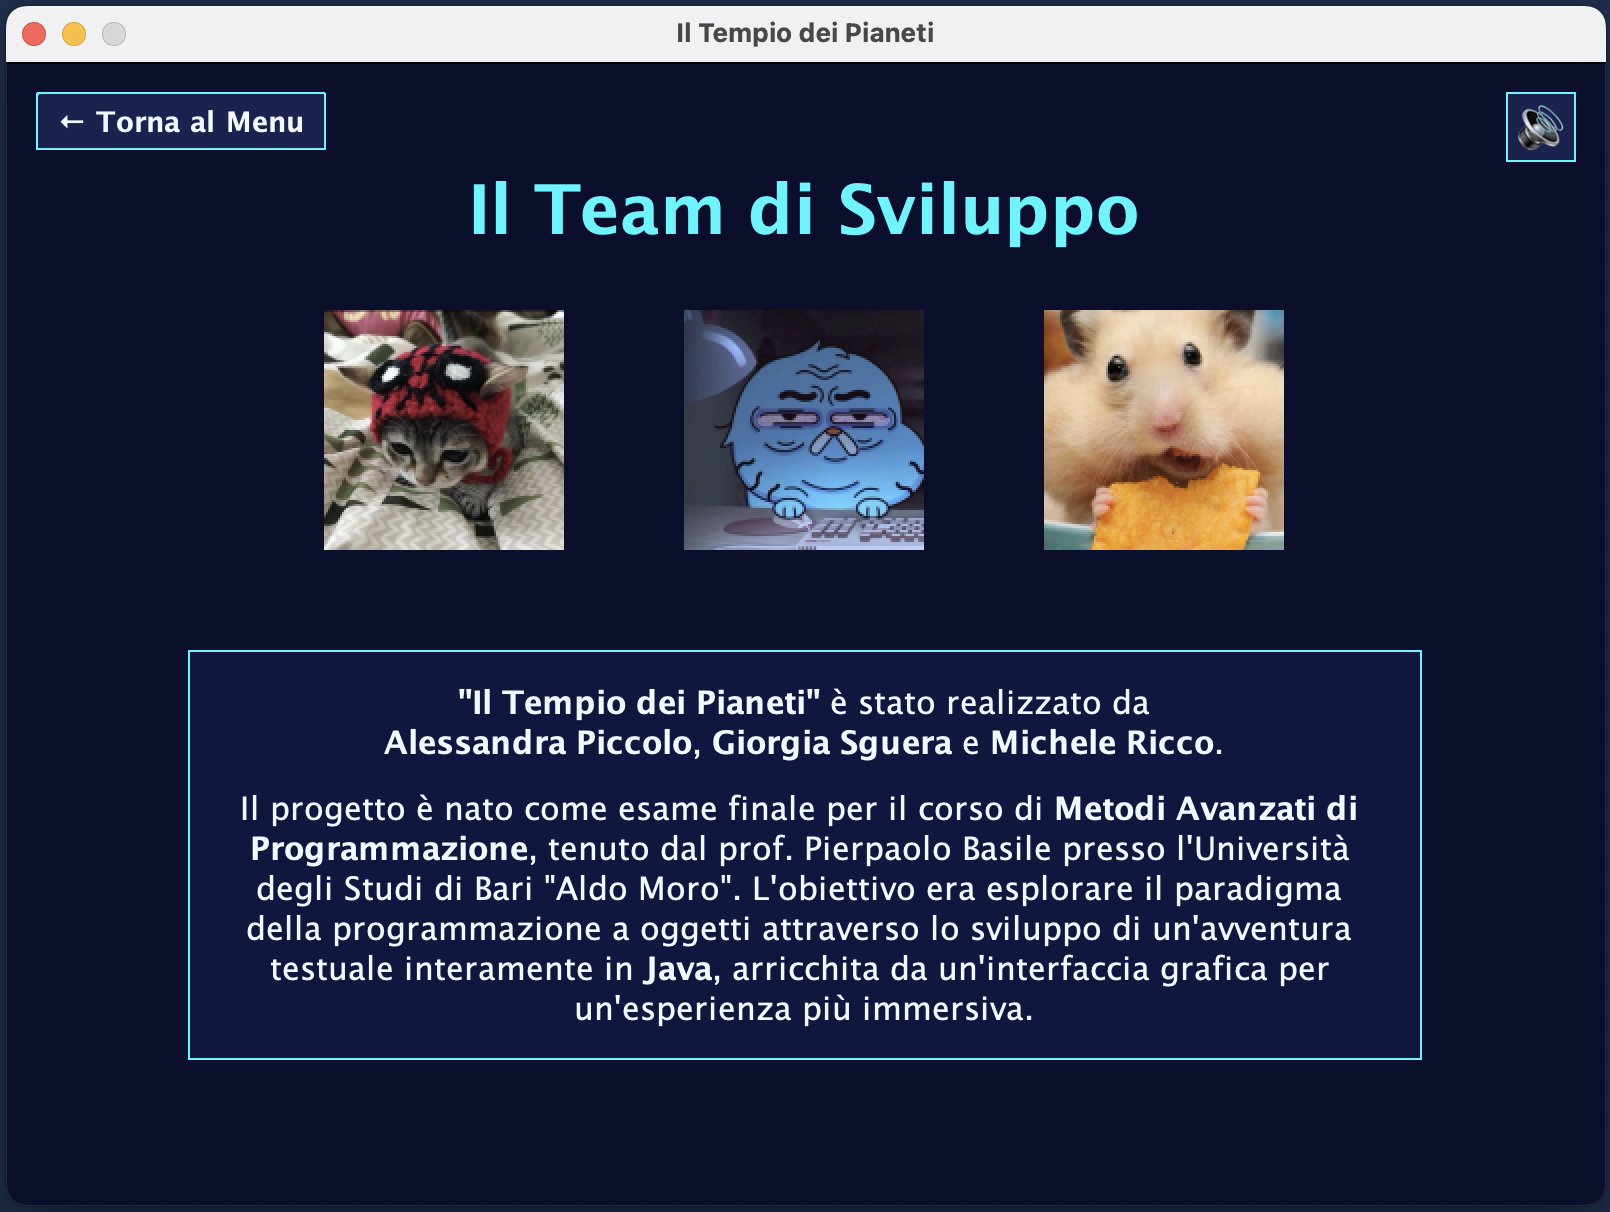
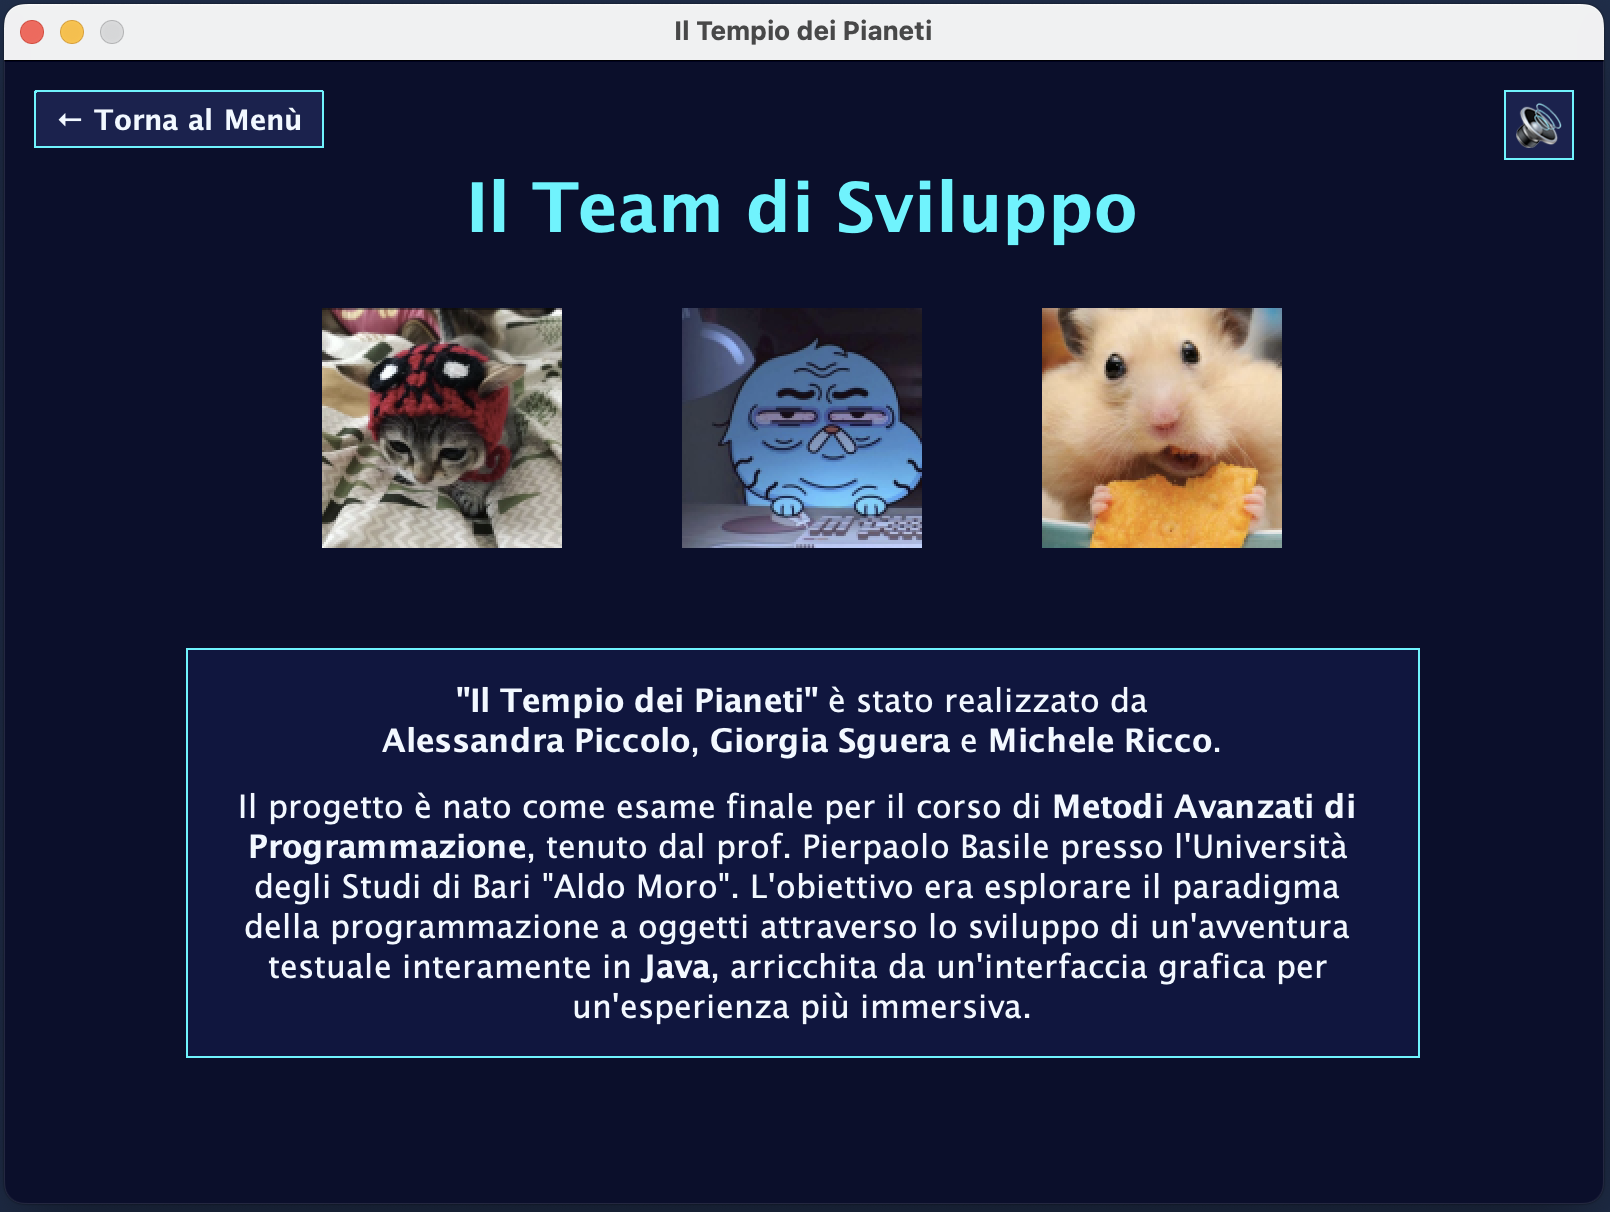
fine :)

diff --git a/src/main/java/GUI/CreditsGUI.java b/src/main/java/GUI/CreditsGUI.java
@@ -108,7 +108,7 @@ public class CreditsGUI extends JPanel {
      * @return il JButton "indietro" 
      */
     private JButton createStyledBackButton() {
-        JButton button = new JButton("← Torna al Menu");
+        JButton button = new JButton("← Torna al Menù");
         button.setFont(new Font("Dialog", Font.BOLD, 14));
         button.setForeground(COLORE_TESTO);
         button.setBackground(new Color(25, 35, 80));

diff --git a/docs/documentazione.md b/docs/documentazione.md
@@ -567,7 +567,7 @@ public static Connection connect() {
 
 Il metodo **connect** si occupa di aprire la connessione al database, creare le tabelle necessarie e controllare se sono vuote. Quando richiesto, inserisce i dati di default nelle tabelle e restituisce la connessione attiva.
 
-Altri metodi chiave includono **close**, **printFromDB** e **getDescriptionFromDatabase**, che rispettivamente permettono di chiudere la connessione, aggiungere dati al database, mostrare i dati salvati, ottenere la classifica dei giocatori e recuperare le descrizioni delle stanze. Procediamo ad esaminarli nel dettaglio:
+Altri metodi chiave includono **close**, **printFromDB** e **getDescriptionFromDB**, che rispettivamente permettono di chiudere la connessione, aggiungere dati al database, mostrare i dati salvati, ottenere la classifica dei giocatori e recuperare le descrizioni delle stanze. Procediamo ad esaminarli nel dettaglio:
 ```java
 /**
  * chiude la connessione al database.
@@ -629,7 +629,7 @@ public static String getDescriptionFromDB(Connection conn, String sql_query) {
 ```
 Il metodo **printFromDB** ha il compito di stampare la descrizione della stanza attuale, recuperandola dal database in base ai parametri forniti.
 
-Il metodo **getDescriptionFromDatabase**, invece, esegue una query SQL ricevuta come parametro e restituisce la descrizione corrispondente alla stanza corrente.
+Il metodo **getDescriptionFromDB**, invece, esegue una query SQL ricevuta come parametro e restituisce la descrizione corrispondente alla stanza corrente.
 
 In sintesi, l'impiego del database ci ha offerto una soluzione pratica ed efficace per salvare e recuperare i dialoghi del gioco, oltre a gestire la classifica relativa ai tempi di gioco.
 
@@ -816,14 +816,14 @@ public class Parser {
 ```
 Nel processo di parsing dell’input dell’utente, sono state utilizzate **lambda expressions** per rendere il codice più compatto e funzionale. In particolare, due lambda svolgono un ruolo centrale:
 
-- **Prima lambda expression:** per la creazione di List<String> words
+- **Prima lambda expression:** per la creazione di List< String > words  
   Questa lambda prende la stringa inserita dall’utente e la:
   1. Suddivide in un array di parole (`split`),
   2. Converte ogni parola in minuscolo (`lowercase`),
   3. Filtra le parole non significative (le cosiddette **stop words**),
   4. Restituisce il risultato come lista di stringhe filtrata.
 
-- **Seconda lambda expression:** per le funzioni findCommand e findItem
+- **Seconda lambda expression:** per le funzioni findCommand e findItem  
   Questa lambda viene utilizzata per confrontare l’input con il **nome** o i **nomi alternativi (alias)** associati a un determinato oggetto o comando. Se viene trovata una corrispondenza (case-insensitive), il risultato corrispondente viene impostato nel `ParserOutput`.
 
 #### Conversione tra JSON e Oggetti Java tramite Lambda Expressions
@@ -1017,10 +1017,10 @@ La classe `ManagerGUI` è il punto centrale della gestione grafica del nostro gi
   - I vari `JPanel` che compongono la GUI del gioco
 - I `JPanel` vengono aggiunti a un **`CardLayout`**, che consente di navigare tra le diverse schermate in modo **fluido** e **intuitivo**.
 
-#### Il Menu Principale
+#### Il Menù Principale
 All'avvio dell'applicazione, la prima schermata visibile è il **menu principale**. Questo è gestito dalla classe `MenuGUI`, che estende `JPanel` e contiene tutti i componenti interattivi della schermata iniziale.
 
-Il menu fornisce pulsanti per le seguenti azioni:
+Il menù fornisce pulsanti per le seguenti azioni:
 - **avviare una nuova partita**
 - **caricare una partita salvata**
 - **visualizzare i crediti**
@@ -1072,7 +1072,7 @@ public class MenuGUI extends JPanel {
 La classe `MenuGUI` rappresenta il **menu iniziale** dell’applicazione, ovvero la prima schermata visibile all’avvio del gioco. Estende `JPanel` ed è progettata per interagire perfettamente con il `CardLayout` di `ManagerGUI`.
 
 All'interno della classe troviamo:
-- **`backgroundPanel`**: un pannello dedicato al disegno dello sfondo grafico del menu, solitamente un'immagine personalizzata.
+- **`backgroundPanel`**: un pannello dedicato al disegno dello sfondo grafico del menu, un'immagine personalizzata.
 - **Pulsanti principali**:
   - `newGame`: avvia una nuova partita
   - `loadGame`: carica una partita salvata
@@ -1093,7 +1093,7 @@ Quando l’utente clicca su:
 - **"nuova partita"**
 - **"carica partita"**
   
-il menu attiva la schermata successiva nel `CardLayout`, ovvero il pannello della **ProgressBar**.
+il menù attiva la schermata successiva nel `CardLayout`, ovvero il pannello della **ProgressBar**.
 
 <p align="center">
 <img src="img/progressbar.png" alt="progressbar" width="70%">
@@ -1203,6 +1203,9 @@ public class GameGUI extends JPanel {
 ```
 Come per `MenuGUI`, anche `GameGUI` funge da pannello principale del gioco, includendo vari pulsanti, ciascuno con i propri `ActionListener` per gestire i clic.
 Il processo di caricamento di una partita salvata è simile a quello di una nuova partita, con la differenza che i dati vengono caricati da un file di salvataggio.
+
+#### Riconoscimenti e Manuale
+
 Cliccando sul pulsante **"Riconoscimenti"**, viene mostrata una schermata dedicata ai nomi dei membri del team di sviluppo, come illustrato di seguito:
 
 <p align="center">
@@ -1231,7 +1234,7 @@ public class CreditsGUI extends JPanel {
 
     // ...
 ```
-Il menu principale del gioco include un pulsante **?** che, quando premuto, apre una finestra di dialogo con le istruzioni per il gioco, come illustrato di seguito:
+Il menù principale del gioco include un pulsante **?** che, quando premuto, apre una finestra di dialogo con le istruzioni per il gioco, come illustrato di seguito:
 <p align="center">
 <img src="img/schermata_help.png" alt="help" width="70%">
 </p>
@@ -1453,7 +1456,7 @@ Nel nostro progetto, server e client risiedono sulla **stessa macchina**, quindi
 
 ### Utilizzo dei Socket nel Progetto
 
-Nel menu principale del nostro gioco è presente un pulsante con l’icona **"🌐"**, che, se cliccato, apre una **pagina web** contenente:
+Nel menù principale del nostro gioco è presente un pulsante con l’icona **"🌐"**, che, se cliccato, apre una **pagina web** contenente:
 
 - Le informazioni generali sul gioco  
 - Le istruzioni per giocare  
@@ -1465,7 +1468,7 @@ Questa funzionalità è stata implementata utilizzando un **socket sulla porta 1
 Il sito web fornisce: una panoramica del gioco e dei suoi obiettivi; le regole principali per giocare correttamente; informazioni utili all’utente, come controlli e suggerimenti; crediti e riferimenti.
 
 <p align="center">
-<img src="img/sito.png" alt="sito" width="70%">
+<img src="img/sito.png" alt="sito" width="85%">
 </p>
 
 Il sito web associato al nostro gioco è stato progettato per fornire tutte le informazioni essenziali in modo chiaro e facilmente navigabile. Le sezioni principali includono:
@@ -1474,7 +1477,7 @@ Il sito web associato al nostro gioco è stato progettato per fornire tutte le i
   Il nome ufficiale del progetto: **"Il Tempio dei Pianeti"**.
 
 - **Indice Linkato**  
-  Un menu di navigazione interno che consente di saltare rapidamente alle varie sezioni della pagina.
+  Un menù di navigazione interno che consente di saltare rapidamente alle varie sezioni della pagina.
 
 - **Missione**  
   La descrizione generale del progetto e della trama dell'avventura.
@@ -1499,7 +1502,7 @@ Nel dettaglio, il socket:
 
 - Rimane in ascolto sulla porta definita
 - Risponde alle richieste HTTP in arrivo
-- Fornisce in risposta il contenuto della pagina web (solitamente un file `.html`)
+- Fornisce in risposta il contenuto della pagina web (un file `.html`)
   
 ```java
 /**
@@ -1566,7 +1569,7 @@ private void handleGet(final Request request, final Response response) throws IO
     out.write(String.format(htmlTemplate, classificaRows.toString()));
 }
 ```
-Il metodo `handleGet()` si occupa di processare le richieste HTTP di tipo **GET** ricevute sulla porta 8080. I passaggi principali sono:
+Il metodo `handleGet()` si occupa di processare le richieste HTTP di tipo **GET** ricevute sulla porta 1111. I passaggi principali sono:
 
 - Impostazione del **content type** della risposta come `"text/html"`.
 - Utilizzo di un oggetto `Writer` per generare dinamicamente il contenuto HTML della pagina web.
@@ -1597,6 +1600,7 @@ Questa architettura è progettata per facilitare la comunicazione client-server,
 - **POST**: invia nuovi dati al server (ad esempio, per creare una nuova risorsa).
 - **PUT**: aggiorna dati esistenti su una risorsa.
 - **DELETE**: rimuove una risorsa dal server.
+
 REST in Java è comunemente usato nella realizzazione di **API** che offrono un’interfaccia semplice, stateless e accessibile via web.
 
 ### Utilizzo di REST nel Progetto
@@ -1898,6 +1902,7 @@ public class DatabaseHandler extends HttpHandler {
 La classe `DatabaseHandler`, che estende `HttpHandler`, è incaricata di gestire le richieste HTTP in arrivo sull’endpoint `/api/data`, adattando il comportamento in base al tipo di richiesta:
 - **Per richieste GET**, viene eseguito il metodo `handleGet`, il quale interroga il database e restituisce i risultati da visualizzare sul sito.
 - **Per richieste POST**, viene invocato il metodo `handlePost`, che inserisce nel database i dati ricevuti dalla richiesta.
+
 Per eseguire correttamente una richiesta POST, è necessario un client HTTP. Nel nostro progetto, questo ruolo è ricoperto dalla classe `Client`, progettata come descritto di seguito:
 
 ```java
